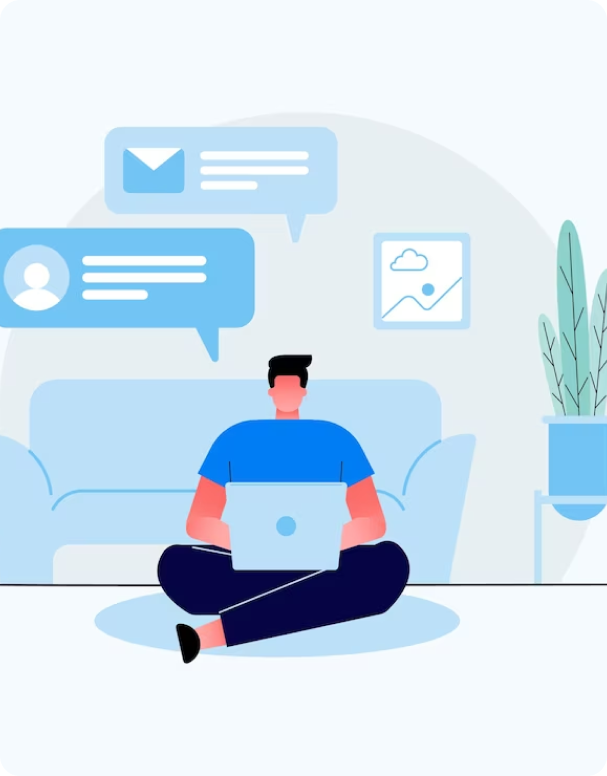
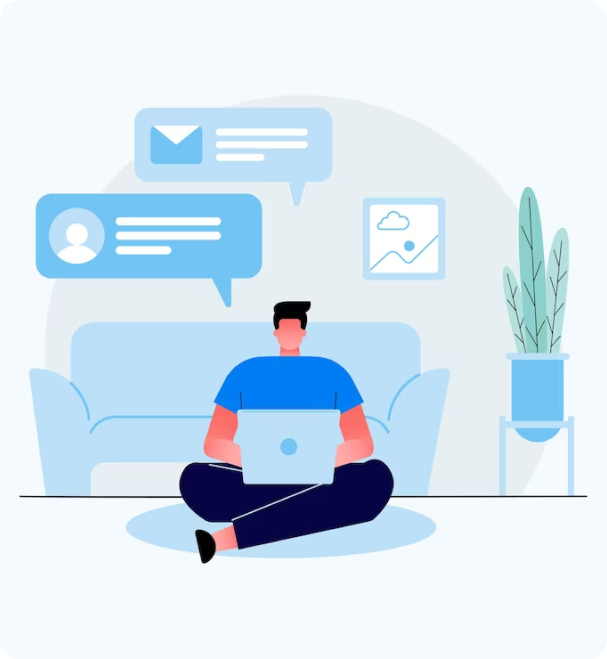
corrección en las clases para el about, cambio de imagen man.png y se borraron clases duplicadas

diff --git a/index.html b/index.html
@@ -121,8 +121,8 @@
             <!--About Us Start-->
             <div class="col-12">
                 <div class="bg-container-about p-0">
-                    <div class="col-10 container-fluid">
-                        <div class="d-flex justify-content-center custom-about">
+                    <div class="col-10 container-fluid custom-about">
+                        <div class="d-flex justify-content-center">
                             <img src="./img/man.png" class="img-about" alt="man">
                             <div>
                                 <p class="text-light about-title">Actúe hoy mismo y eleve sus proyectos al siguiente

diff --git a/css/components/_components.css b/css/components/_components.css
@@ -1,22 +1,16 @@
 @import '../abstracts/_vars.css';
 
-.hbg-container{
-  height: 67.5rem !important;
-  background: var(--clr-black);
+.img-about {
+  width: 37.9375rem;
+  height: 41.1875rem;
+  border-radius: 1.25rem;
 }
 
-.img-about{
-  width: 37.9375rem;
-  height: 48.5rem;
-  border-radius: 1.25rem;
+.pe-join{
+  padding-right: 2.5rem;
 }
 
 .custom-about{
   padding-top: 9.5rem;
-  padding-left: 11.8rem;
-  padding-right: 11.8rem;
-}
-
-.pe-join{
-  padding-right: 11.8rem;
+  padding-bottom: 9.5rem;
 }

diff --git a/css/base/_typography.css b/css/base/_typography.css
@@ -16,13 +16,14 @@
   font-family: var(--ff-kan);
   font-size: var(--fs-55);
   font-weight: var(--fw-sbold);
-  padding-left: 2.188rem;
+  padding-left: 3rem;
+  margin-top: -1.5rem;
 }
 
 .about-text{
   font-family: var(--ff-pop);
   font-size: var(--fs-30);
   font-weight: var(--fw-light);
-  padding-left: 2.188rem;
+  padding-left: 3rem;
   margin-top: 40px;
 }

diff --git a/css/components/_buttons.css b/css/components/_buttons.css
@@ -11,19 +11,3 @@
   font-weight: var(--fw-sbold);
   border: none;
 }
-
-
-.img-about {
-  width: 37.9375rem;
-  height: 41.1875rem;
-  border-radius: 1.25rem;
-}
-
-.custom-about {
-  padding-top: 9.5rem;
-
-}
-
-.pe-join {
-  padding-bottom: 9.5rem;
-}
